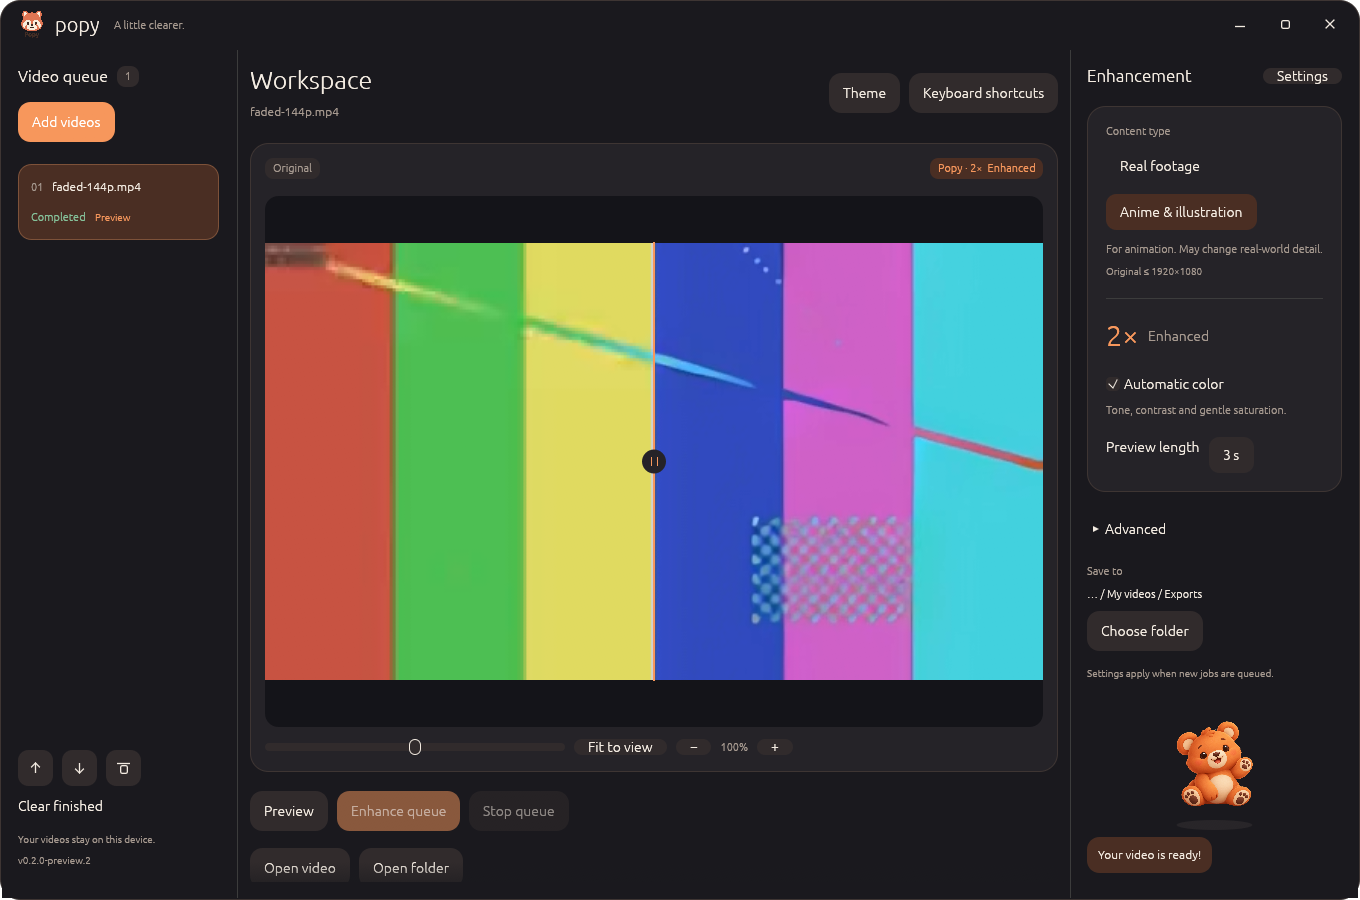
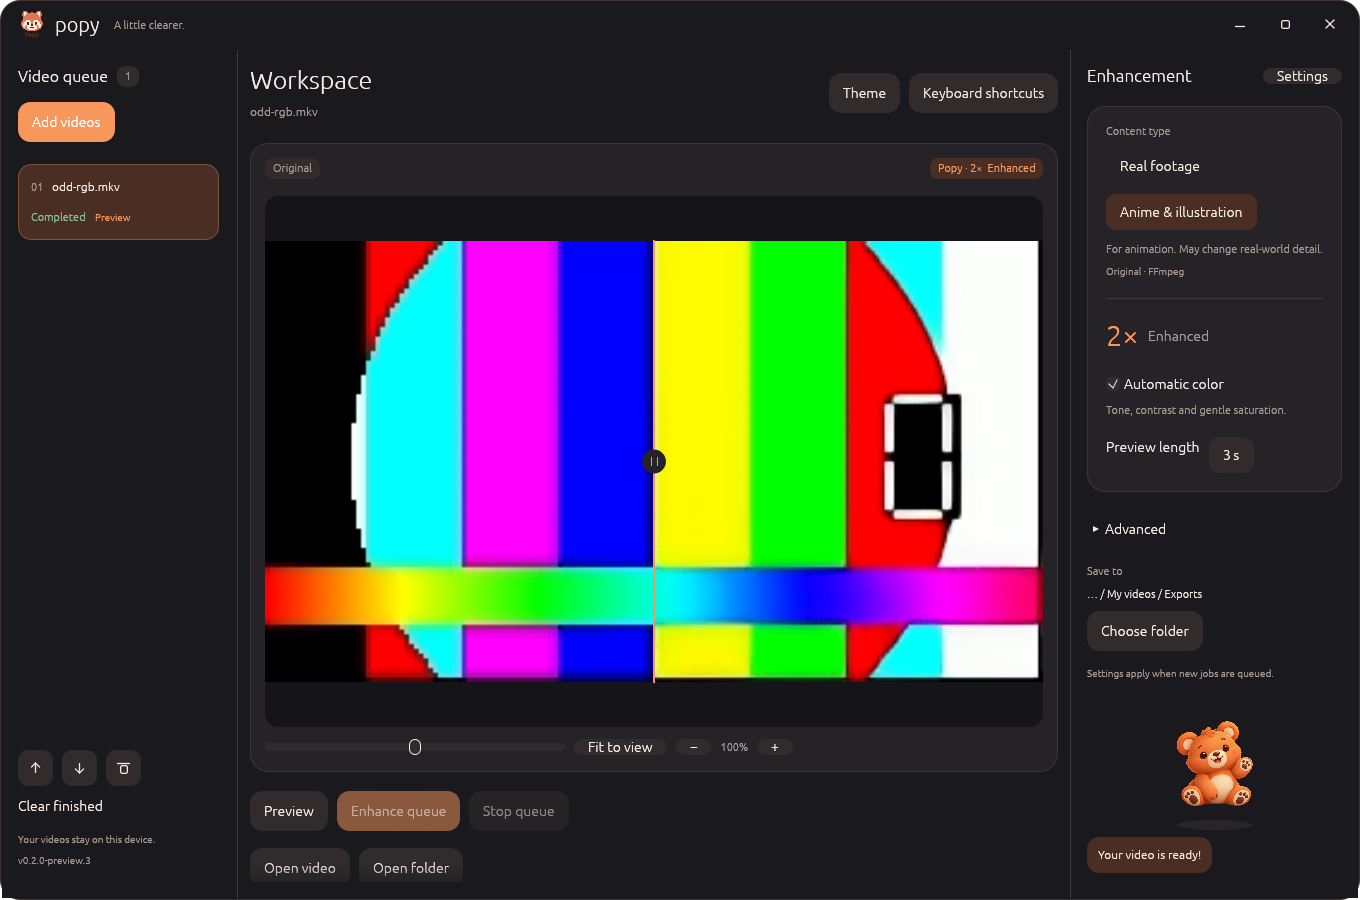
Document broader import validation and refresh application screenshots [skip ci]

Changed region(s): [[0.1853, 0.2489, 0.7721, 0.7778], [0.0309, 0.1867, 0.0926, 0.2178], [0.8338, 0.28, 0.8647, 0.3111]]

diff --git a/docs/QUICKSTART.md b/docs/QUICKSTART.md
@@ -22,12 +22,14 @@ Updates preserve `.tools/`, settings, exports and source videos. If file replace
 
 ## Supported media
 
-This preview accepts one progressive H.264 video stream, constant 1–120 FPS, 8-bit yuv420p, explicit limited-range BT.709 SDR metadata, square pixels and a near-zero start. Audio is optional; at most one aligned AAC stream is supported.
+The desktop app and `enhance` automatically prepare videos that the installed FFmpeg can decode: MP4, MOV, MKV, WebM, AVI and other containers; H.264, HEVC, VP9 and other available decoders; different chroma formats and bit depths. The file picker also has an All files option. The first real video and first audio stream are selected; additional audio/subtitle/data streams are omitted.
 
-Output is 2×. General-model input is capped at 960×540 because its internal inference scale is 4×. Anime-model input is capped at 1920×1080. The general model can be slow on integrated graphics. Automatic color adjusts tone, contrast and saturation; it does not colorize black-and-white footage.
+Compatible inputs keep the existing path. Other files are converted into a temporary lossless H.264 processing copy in 8-bit BT.709 SDR. VFR is resampled to constant FPS, rotation applied, flagged interlacing handled, pixel aspect corrected and odd dimensions padded. PQ/HLG HDR is tone-mapped to SDR. Missing color metadata uses recorded assumptions; source files are unchanged. Audio is aligned to video and encoded as stereo AAC when import conversion is required. Conversion details are written to the report. `inspect` and `benchmark` keep the stricter research contract; `prepare` tests automatic import without GPU inference.
 
-HDR, VFR, rotation, interlacing, untagged color and other codecs/layouts are not supported yet. The six-hour input cap is a safety limit, not a tested multi-hour stability claim. Current inference writes bounded PNG batches and temporary lossless segments; total segment storage grows with video duration. A conservative free-space check runs before processing. Lower tile size from 64 to 32 after a GPU-memory failure.
+Output remains 2× H.264/AAC MP4 in 8-bit SDR. This release does not preserve HDR or every original encoding property. The old fixed model-specific input resolution caps are removed; images are not automatically reduced in size. Actual GPU/RAM, temporary disk and encoder limits still apply, and general-model processing at high resolution can be very slow. Corrupt, encrypted and unsupported proprietary formats can still fail.
 
-Windows x64 and a Vulkan driver are required. Local GPU integration tests used an AMD Radeon integrated GPU; RTX 30/40/50, discrete AMD and Intel devices are not certified. The executable does not have a Windows Authenticode signature. Update metadata uses a separate Ed25519 publisher signature; these are different mechanisms.
+The six-hour duration cap is a safety limit, not a tested multi-hour stability claim. Current inference writes bounded PNG batches and temporary lossless segments; total storage grows with duration. Lower tile size after a GPU-memory failure. Automatic color adjusts tone, contrast and saturation; it does not colorize black-and-white footage.
 
-Popy code is Apache-2.0. Third-party tools, model weights and fonts have separate licenses. Package notices are in `DEPENDENCIES.md`, `licenses/` and `THIRD_PARTY.md`.
+Windows x64 and a Vulkan driver are required. Local GPU integration tests used an AMD Radeon integrated GPU; other GPU families are not certified. The EXE has no Windows Authenticode signature; update packages use a separate Ed25519 publisher signature.
+
+Popy code is Apache-2.0. Third-party notices are in `DEPENDENCIES.md`, `licenses/` and `THIRD_PARTY.md`.

diff --git a/docs/QUICKSTART.tr.md b/docs/QUICKSTART.tr.md
@@ -23,12 +23,12 @@ Ayarlar sıraya alırken işe kaydedilir. Durdurma kuyruktaki işleri bekletir. 
 
 ## Destek ve sınırlar
 
-Windows x64 ve güncel Vulkan sürücüsü gerekir. Yerel GPU testleri AMD Radeon iGPU'da yapıldı; RTX 30/40/50, ayrı AMD ve Intel kartları henüz doğrulanmadı. Windows EXE'sinde Authenticode imzası yoktur. Güncelleme paketlerinin Ed25519 imzası ayrı bir mekanizmadır.
+Masaüstü ve `enhance`, kurulu FFmpeg'in okuyabildiği videoları otomatik hazırlar: MP4/MOV/MKV/WebM/AVI ve diğer konteynerler, H.264/HEVC/VP9 ve mevcut diğer çözücüler, farklı piksel biçimleri ve renk derinlikleri. Dosya seçicide Tüm dosyalar seçeneği vardır. İlk gerçek video ve ilk ses akışı kullanılır; diğer ses, altyazı ve veri akışları aktarılmaz.
 
-Bu ön sürüm tek progressive H.264, sabit 1–120 FPS, 8-bit yuv420p, açık BT.709 limited SDR etiketi, kare piksel ve sıfıra yakın başlangıç kabul eder. En fazla bir hizalı AAC akışı desteklenir. HDR, VFR, döndürme, interlaced, etiketsiz renk ve diğer kodekler henüz desteklenmez.
+Uygun girdiler doğrudan işlenir. Diğerleri geçici, kayıpsız H.264 kodlamalı 8-bit BT.709 SDR işleme kopyasına dönüştürülür. VFR sabit FPS'ye çevrilir, rotasyon uygulanır, işaretli interlaced görüntü düzeltilir, piksel oranı düzeltilir ve tek sayılı boyutlara dolgu eklenir. PQ/HLG HDR, SDR'ye ton eşleme ile dönüştürülür. Eksik renk bilgilerindeki varsayımlar rapora yazılır. İçe aktarma dönüşümü gerektiğinde ses videoya hizalanıp stereo AAC olarak kodlanır. Kaynak değişmez. `inspect`/`benchmark` araştırma komutları sıkı biçim denetimini korur; `prepare`, GPU kullanmadan içe aktarmayı sınar.
 
-Çıktı 2×. Genel model içeride 4× çalışır; girdi sınırı 960×540'tır. Anime girdi sınırı 1920×1080'dir. Genel model iGPU'da yavaştır. Otomatik renk ton/kontrast/doygunluk düzeltir; siyah beyaz görüntüye yeni renk eklemez.
+Çıktı hâlâ 2× H.264/AAC MP4, 8-bit SDR'dir. HDR ve kaynak kodlamanın tüm özellikleri korunmaz. Eski modele özel girdi çözünürlük sınırları kaldırıldı; yüksek çözünürlüklü kaynak sessizce küçültülmez. Gerçek GPU/RAM, geçici disk ve kodlayıcı sınırları geçerlidir. Genel model yüksek çözünürlükte çok yavaş olabilir. Bozuk, şifreli veya desteklenmeyen özel biçimler yine hata verebilir.
 
-PNG grupları sınırlıdır fakat geçici kayıpsız segmentlerin toplam alanı video süresiyle büyür. Boş disk kontrolü yapılır. 6 saatlik süre sınırı bir güvenlik sınırıdır; 6 saatlik dayanıklılık testi iddiası değildir. GPU bellek hatasında tile değerini 64'ten 32'ye düşürmeyi dene.
+6 saatlik süre sınırı dayanıklılık testi iddiası değildir. PNG grupları sınırlıdır; kayıpsız segmentlerin toplam alanı süreyle büyür. GPU bellek hatasında tile değerini düşürmeyi dene. Otomatik renk, ton/kontrast/doygunluk düzeltir; siyah beyaz görüntüye yeni renk eklemez.
 
-Popy kodu Apache-2.0; üçüncü taraf araç, model ve fontların lisansları ayrıdır. Bildirimler `DEPENDENCIES.md`, `licenses/` ve `THIRD_PARTY.md` içindedir.
+Windows x64 ve Vulkan sürücüsü gerekir. Yerel GPU testleri AMD Radeon iGPU'da yapıldı; diğer aileler henüz doğrulanmadı. EXE'de Windows Authenticode imzası yoktur; güncelleme paketleri ayrı Ed25519 imzası kullanır. Popy kodu Apache-2.0; bağımlılık bildirimleri `DEPENDENCIES.md`, `licenses/` ve `THIRD_PARTY.md` içindedir.

diff --git a/docs/RELEASE-0.2.0-preview.3.md b/docs/RELEASE-0.2.0-preview.3.md
@@ -8,6 +8,13 @@ Fixes the "Only 8-bit yuv420p SDR" error for otherwise readable videos, includin
 - The first real video and first audio track are selected; audio is aligned, resampled and converted to stereo AAC when conversion is needed. Other tracks are omitted.
 - Removes the old 960×540/general and 1920×1080/anime input rejection. Input is not automatically reduced in size. Actual GPU memory, temporary disk space and encoder/decoder limits still apply.
 - Broad file picker plus All files; keeps compatible inputs on the existing path.
+- Fixes completed previews occasionally showing an empty comparison while the PNG was still being written.
 - Sources stay unchanged. The internal converted video is lossless H.264 after normalization to 8-bit SDR. VFR resampling, HDR tone mapping and audio encoding are conversions, not preservation of the original format.
 
 Output remains 2× H.264/AAC MP4 in 8-bit SDR. This is not a promise to read corrupt, encrypted or every proprietary format, or to retain HDR output. Benchmark/inspect retain the strict research contract; desktop/enhance use automatic import. The six-hour safety cap remains.
+
+## Validation
+
+27 automated tests and the Windows format/Clippy/release build checks passed. The final packaged binaries passed the complete import matrix, desktop comparison-texture checks in light/dark themes, and verification of all 486 extracted package files.
+
+The import matrix passed HEVC 10-bit, PQ HDR, HLG HDR, VP9/Opus with delayed audio, MJPEG AVI, 16-bit RGB, VFR, anamorphic/interlaced, GIF and odd-sized RGB sources. A provided 1920×1080/60 FPS full-range source passed import of all 180 frames with audio and source-integrity checks. Additional checks covered a real display rotation and 240 FPS. Local AMD iGPU inference produced a 3840×2160 frame from that source and passed a general-model job above the previous width limit. These small technical tests do not certify natural-footage quality, every codec, long jobs or other GPUs.

diff --git a/docs/STATUS.md b/docs/STATUS.md
@@ -1,3 +1,12 @@
+# Current hotfix — 0.2.0-preview.3
+
+Desktop/enhance now automatically import FFmpeg-decodable inputs rather than rejecting every format outside the research contract. Full-range yuvj420p, different codecs/bit depths, VFR, rotation, flagged interlacing and pixel aspect are normalized. PQ/HLG HDR is tone-mapped to 8-bit SDR. Source files stay unchanged; color assumptions and conversions are recorded. The old desktop model-specific resolution rejection was removed; hardware/disk/encoder limits still apply. Output remains 2× SDR H.264/AAC MP4. See [release notes](RELEASE-0.2.0-preview.3.md).
+
+The new import matrix passed ten synthetic format cases plus a provided 1080p/60 source with 180 frames and audio. Additional rotation/240 FPS checks and 4K-frame/general-model GPU smokes passed; see [import measurements](measurements/2026-10-30-import.json). These are not full natural-footage quality or multi-hour certifications.
+
+The preview.2 measurements below describe the earlier restricted input path and remain historical evidence, not a statement of current desktop input restrictions.
+
+---
 # Popy — geliştirme durumu
 
 30 Ekim 2026 · **0.2.0-preview.2**. Yeni masaüstü tasarımı, 20 dil, özelleştirilebilir kısayollar ve imzalı uygulama içi güncelleme. Kararlı 1.0 kalite/donanım kapıları henüz geçilmedi.

diff --git a/docs/ROADMAP.md b/docs/ROADMAP.md
@@ -23,7 +23,7 @@
 - [ ] Faster, practical general model with verified weight provenance/conversion; current model is expensive and internally 4×.
 - [ ] Multi-hour stress, disk exhaustion, corrupted media and forced-close recovery tests.
 - [ ] Actual RTX 30/40/50, discrete AMD and selected Intel/AMD iGPU validation; device enumeration and clearer selection.
-- [ ] Common untagged SDR import, additional codecs, audio offsets and explicit VFR conversion preserving timing.
+- [x] Automatic broad import: untagged SDR assumptions, additional codecs, audio offsets and explicit VFR resampling. HDR is tone-mapped to SDR; original format preservation remains limited.
 - [ ] Embedded playback and moving before/after preview; clearer recovery.
 - [ ] Clean Windows installation test, runtime dependency checks and signing decision.
 - [ ] Runtime/model redistribution review before a fully offline bundle.
